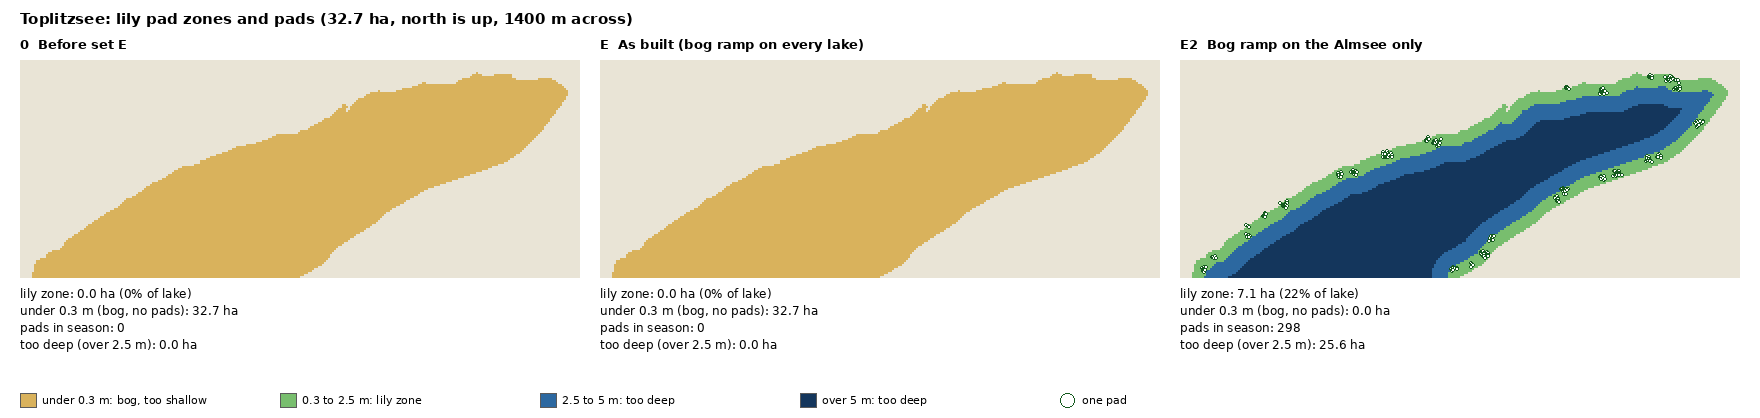
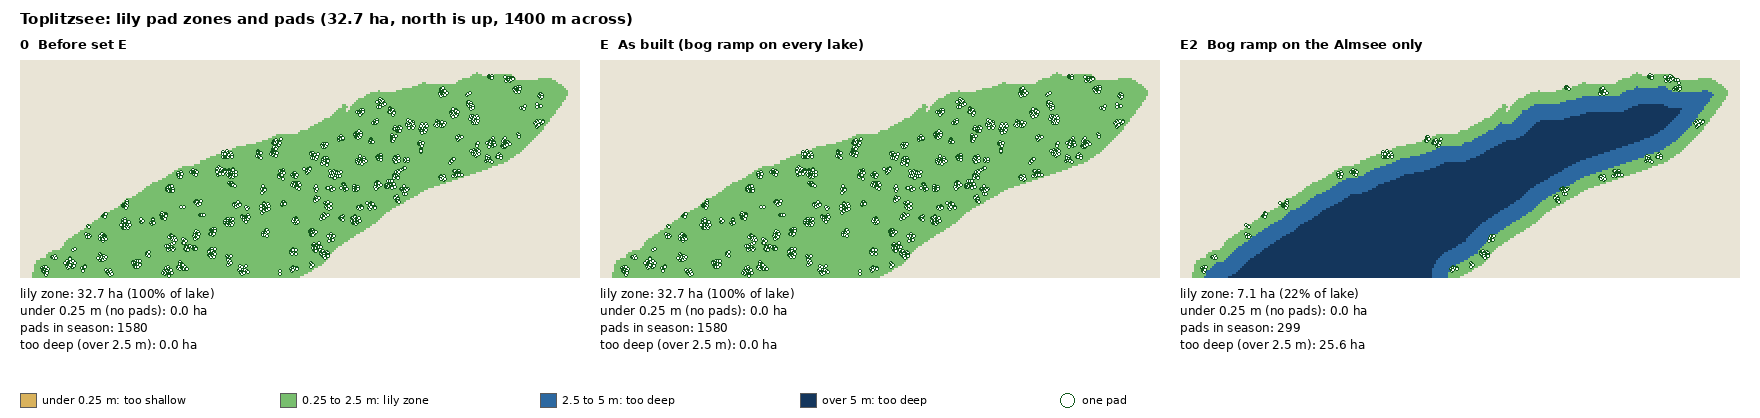
fix: lily pads grow from 0.25 m so they grow in the bog

diff --git a/src/sim/lily.ts b/src/sim/lily.ts
@@ -16,7 +16,7 @@ export const LILY_CELL = 3;
 /** The share of grid cells at a patch centre that hold a pad. A tuning number. */
 export const LILY_DENSITY = 0.8;
 /** Pads grow in water between these depths in metres: shallow enough to root, not so shallow it is a puddle. */
-export const LILY_MIN_DEPTH = 0.3;
+export const LILY_MIN_DEPTH = 0.25;
 export const LILY_MAX_DEPTH = 2.5;
 /** The beaver reaches a pad within this many metres of its centre. */
 export const LILY_REACH = 1.8;

diff --git a/docs/design/17_lake_depth.md b/docs/design/17_lake_depth.md
@@ -20,7 +20,7 @@ flattened to `BOG_BED_OFFSET`, with a weight from 0 (open water) to 1 (full bog)
   left the start as it was.
 - The open lake was already deep: mean 5.3 m for the Almsee, against 2.5 m for
   the real lake (maximum 5 m), and 54% of it is deeper than 2.5 m.
-- Lily pads need 0.3 to 2.5 m of water, a lodge site needs 0.1 to 1.2 m with a
+- Lily pads need 0.25 to 2.5 m of water (0.3 when this note was written), a lodge site needs 0.1 to 1.2 m with a
   door of 1.2 m or more 2.9 m and 5.9 m out, and diving needs 1 m or more. The
   bog is too flat and shallow for the door and the dive.
 
@@ -60,7 +60,7 @@ are estimates. All figures are for the Almsee (89 ha).
 | Bog under 0.6 m, whole lake | about 26 ha | | | 2.2 ha | 3.1 ha | 11.0 ha |
 | Mean depth | 5.3 m | 7.4 m | 10.2 m | 3.9 m | 3.8 m | 3.6 m |
 
-Lily water is 0.3 to 2.5 m deep, diveable water is 1 m or more. Empty cells were
+Lily water is 0.3 to 2.5 m deep here (the game now uses 0.25), diveable water is 1 m or more. Empty cells were
 not measured.
 
 ## Decision: set E
@@ -100,6 +100,7 @@ needed. The lodge rules (`SITE_MIN_DEPTH`, `SITE_MAX_DEPTH`, `DOOR_MIN_DEPTH`,
 - The real lake is 2.5 m deep on average and set E is 3.6 m. A shallower lake
   than that has not been tried.
 - The other lakes were measured in session 32, see the next section.
+- Lily pads: the game minimum is now 0.25 m, see "Lily pads on each lake".
 - The tiles were rebuilt with set E in session 31 and the tile checks pass. The
   2 m fine tiles use the same bed code and changed with it. The camera demo scene
   was not re-cut and ADR 0008 has no depth numbers, so it needs no change.
@@ -141,32 +142,34 @@ since the lodge rules are not run on them.
 ### Lily pads on each lake
 
 Maps of the pad zones are in `img/17_lakes_lily/`, one file for each lake of 1 ha
-or more, with the same three panels. The zone is 0.3 to 2.5 m of water, and the
+or more, with the same three panels. The zone is 0.25 to 2.5 m of water, and the
 dots are the pads of `src/sim/lily.ts` (patches, grid, density and hash ported
 to Python) for one season, so they are the same pads the game places, as far as
 the 5 m bed allows.
 
-One thing differs from the table above. The flat bog is built 0.3 m deep, and
-the tiles hold it as 0.29999 m, just under `LILY_MIN_DEPTH` (0.3). So the bog
-grows no pads in the game, and the "lily water" figures in the set table, which
-counted the bog, are too high. Counted by the game rule the Almsee has 23 ha of
-lily zone and 1031 pads under set E (before set E: 18 ha and 811 pads), and the
-pads sit in the shallows around the bog and along the shore, not in the bog. This
-is luck of the rounding, not a rule. If pads should grow in the bog, lower
-`LILY_MIN_DEPTH` a little, for example to 0.25.
+The flat bog is built 0.3 m deep, and the tiles hold it as 0.29999 m. With
+`LILY_MIN_DEPTH` at 0.3 that was just under the rule, so the bog grew no pads,
+by luck of the rounding. `LILY_MIN_DEPTH` is now 0.25, so pads grow in the bog
+too, and the "lily water" figures in the set table, which counted the bog, hold
+again. Under set E the Almsee has 32 ha of lily zone and 1449 pads (before set
+E: 41 ha and 1906 pads, most of it flat bog). The bog is the zone of the thickest
+lily water, and a pad there is reached on foot in 0.3 m of water.
 
 | Lake | Lily zone before (ha) | Lily zone now (ha) | Pads now |
 | --- | --- | --- | --- |
-| Almsee | 18.3 | 23.0 | 1031 |
-| Toplitzsee | 0 | 7.1 | 298 |
-| Vorderer Lahngangsee | 0 | 6.3 | 229 |
+| Almsee | 41.3 | 32.1 | 1449 |
+| Toplitzsee | 32.7 | 7.1 | 299 |
+| Vorderer Lahngangsee | 18.2 | 6.3 | 229 |
 | Großer Ödsee | 2.9 | 5.3 | 221 |
-| Hinterer Lahngangsee | 0 | 2.3 | 147 |
+| Hinterer Lahngangsee | 3.6 | 2.3 | 147 |
 | Kleiner Ödsee | 1.4 | 2.5 | 83 |
-| Kammersee | 0 | 1.7 | 78 |
-| Elmsee | 0 | 1.5 | 48 |
+| Kammersee | 2.5 | 1.7 | 78 |
+| Elmsee | 2.4 | 1.6 | 61 |
 | Kasbergalm See | 0.6 | 1.1 | 57 |
-| Dreibrüdersee | 0 | 0.9 | 39 |
+| Dreibrüdersee | 1.1 | 0.9 | 40 |
+
+The alpine lakes were flat 0.3 m ponds before, so all of their water counted as
+lily zone. Now they have real depth and a lily rim.
 
 The unnamed lakes of the north are nearly all lily zone (1.4 to 7.9 ha, 67 to 307
 pads each), since they are only 1 to 2 m deep.
